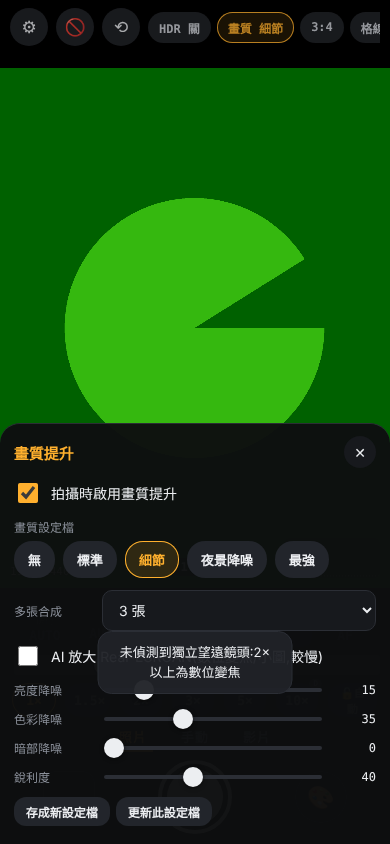
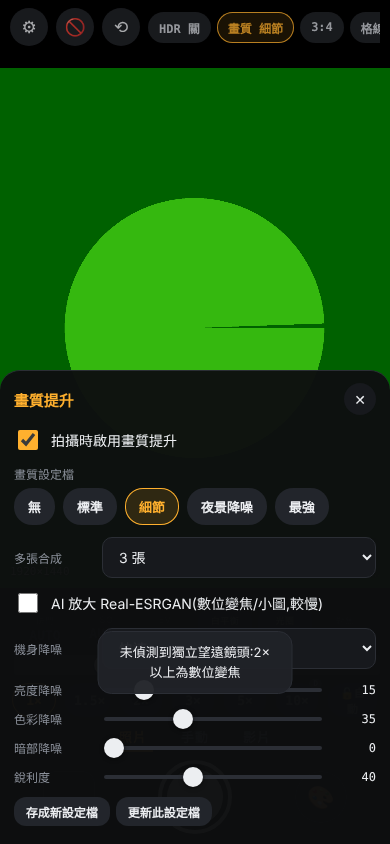
雜訊:新增機身降噪(硬體)選項、粗尺度保邊降噪(濾除斑塊狀雜訊)
Claude-Session: https://claude.ai/code/session_016jd6xW3n2NEQN18hwjMf4T

diff --git a/www/js/enhance.js b/www/js/enhance.js
@@ -4,8 +4,8 @@
 const A = window.A;
 const $ = A.$;
 
-const KEYS = ['burst', 'nn', 'nnMix', 'dnL', 'dnC', 'dnS', 'sharp'];
-A.enhZero = () => ({ burst: 1, nn: false, nnMix: 40, dnL: 0, dnC: 0, dnS: 0, sharp: 0 });
+const KEYS = ['burst', 'nn', 'nnMix', 'dnL', 'dnC', 'dnS', 'sharp', 'hal'];
+A.enhZero = () => ({ burst: 1, nn: false, nnMix: 40, dnL: 0, dnC: 0, dnS: 0, sharp: 0, hal: 0 });
 A.cloneEnh = (e) => {
   const z = A.enhZero();
   const o = {};
@@ -15,10 +15,10 @@ A.cloneEnh = (e) => {
 };
 A.ENH_BUILTIN = [
   { id: 'off', name: '無', builtin: true, enh: { burst: 1, nn: false, nnMix: 40, dnL: 0, dnC: 0, sharp: 0 } },
-  { id: 'std', name: '標準', builtin: true, enh: { burst: 1, nn: false, nnMix: 40, dnL: 20, dnC: 35, sharp: 30 } },
-  { id: 'detail', name: '細節', builtin: true, enh: { burst: 3, nn: false, nnMix: 40, dnL: 15, dnC: 35, sharp: 40 } },
-  { id: 'night', name: '夜景降噪', builtin: true, enh: { burst: 4, nn: false, nnMix: 40, dnL: 45, dnC: 70, dnS: 70, sharp: 25 } },
-  { id: 'max', name: '最強', builtin: true, enh: { burst: 4, nn: true, nnMix: 40, dnL: 30, dnC: 50, sharp: 35 } },
+  { id: 'std', name: '標準', builtin: true, enh: { burst: 1, nn: false, nnMix: 40, dnL: 20, dnC: 35, sharp: 30, hal: 1 } },
+  { id: 'detail', name: '細節', builtin: true, enh: { burst: 3, nn: false, nnMix: 40, dnL: 15, dnC: 35, sharp: 40, hal: 1 } },
+  { id: 'night', name: '夜景降噪', builtin: true, enh: { burst: 4, nn: false, nnMix: 40, dnL: 45, dnC: 70, dnS: 70, sharp: 25, hal: 2 } },
+  { id: 'max', name: '最強', builtin: true, enh: { burst: 4, nn: true, nnMix: 40, dnL: 30, dnC: 50, sharp: 35, hal: 2 } },
 ];
 A.allEnhProfiles = () => A.ENH_BUILTIN.concat(A.settings.enhProfiles || []);
 A.findEnhProfile = (id) => A.allEnhProfiles().find((p) => p.id === id) || null;
@@ -26,9 +26,13 @@ A.findEnhProfile = (id) => A.allEnhProfiles().find((p) => p.id === id) || null;
 /** 確保 settings.enhCap / enhSet 結構完整 */
 A.ensureEnhState = () => {
   const st = A.settings;
-  if (st.enhV !== 2) {   // v2:Real-ESRGAN 會長出怪細節,改為預設關閉並重設強度
-    st.enhV = 2;
+  if (!(st.enhV >= 2)) {   // v2:Real-ESRGAN 會長出怪細節,改為預設關閉並重設強度
     ['enhCap', 'enhSet'].forEach((k) => { if (st[k] && st[k].enh) { st[k].enh.nn = false; st[k].enh.nnMix = 40; } });
+    st.enhV = 2;
+  }
+  if (st.enhV < 3) {       // v3:新增機身降噪(硬體),拍攝預設改用高品質
+    if (st.enhCap && st.enhCap.enh && st.enhCap.enh.hal === undefined) st.enhCap.enh.hal = 2;
+    st.enhV = 3;
   }
   if (!Array.isArray(st.enhProfiles)) st.enhProfiles = [];
   [['enhCap', true, 'detail'], ['enhSet', false, 'std']].forEach(([k, on, id]) => {
@@ -45,9 +49,9 @@ A.ensureEnhState();
 
 /** 實際生效的設定(未啟用 = 全部關閉) */
 A.enhEff = (s) => (s && s.on ? A.cloneEnh(s.enh) : A.enhZero());
-A.enhActive = (e) => e.burst > 1 || e.nn || e.dnL > 0 || e.dnC > 0 || e.dnS > 0 || e.sharp > 0;
+A.enhActive = (e) => e.burst > 1 || e.nn || e.dnL > 0 || e.dnC > 0 || e.dnS > 0 || e.sharp > 0 || e.hal > 0;
 /** 轉成原生外掛參數 */
-A.enhArgs = (e) => ({ nn: !!e.nn, nnMix: e.nnMix / 100, dnLuma: e.dnL, dnChroma: e.dnC, dnShadow: e.dnS, sharpen: e.sharp });
+A.enhArgs = (e) => ({ nn: !!e.nn, nnMix: e.nnMix / 100, dnLuma: e.dnL, dnChroma: e.dnC, dnShadow: e.dnS, sharpen: e.sharp, halNr: e.hal });
 A.enhSame = (a, b) => JSON.stringify(A.cloneEnh(a)) === JSON.stringify(A.cloneEnh(b));
 
 A.saveEnhProfile = (name, enh) => {
@@ -98,7 +102,7 @@ A.buildEnhPanel = (container, st, opts) => {
     rows[key] = { inp, val, row, unit };
   };
 
-  let burstSel = null, nnBox = null, nnRowEl = null;
+  let halSel = null, burstSel = null, nnBox = null, nnRowEl = null;
   if (opts.showBurst !== false) {
     const row = document.createElement('div');
     row.className = 'row';
@@ -116,6 +120,14 @@ A.buildEnhPanel = (container, st, opts) => {
     body.appendChild(row);
     nnRowEl = row;
     addSlider('nnMix', 'AI 強度', 100, '%');
+  }
+  if (opts.showHal !== false) {
+    const row = document.createElement('div');
+    row.className = 'row';
+    row.innerHTML = '<span class="n" style="width:78px">機身降噪</span><select class="txt" style="flex:1"><option value="0">關(原始)</option><option value="1">快速</option><option value="2">高品質(硬體,最有效)</option></select>';
+    halSel = row.querySelector('select');
+    halSel.onchange = () => { st.enh.hal = parseInt(halSel.value, 10); changed(); renderChips(); };
+    body.appendChild(row);
   }
   addSlider('dnL', '亮度降噪', 100);
   addSlider('dnC', '色彩降噪', 100);
@@ -173,6 +185,7 @@ A.buildEnhPanel = (container, st, opts) => {
   function refresh() {
     onBox.checked = !!st.on;
     if (burstSel) burstSel.value = String(st.enh.burst);
+    if (halSel) halSel.value = String(st.enh.hal || 0);
     if (nnBox) { nnBox.checked = !!st.enh.nn; rows.nnMix.row.style.display = st.enh.nn ? 'flex' : 'none'; }
     ['nnMix', 'dnL', 'dnC', 'dnS', 'sharp'].forEach((k) => {
       const r = rows[k];

diff --git a/www/js/editor.js b/www/js/editor.js
@@ -126,7 +126,7 @@ const btn = (txt, cls, fn) => { const b = document.createElement('button'); b.cl
 function toolQuality(p) {
   const box = document.createElement('div');
   p.appendChild(box);
-  A.buildEnhPanel(box, E.enhSt, { toggleLabel: '套用畫質提升', showBurst: false, showNN: true, onChange: () => { scheduleDn(); schedule(); } });
+  A.buildEnhPanel(box, E.enhSt, { toggleLabel: '套用畫質提升', showBurst: false, showHal: false, showNN: true, onChange: () => { scheduleDn(); schedule(); } });
   const n = document.createElement('p');
   n.className = 'note';
   n.textContent = '預覽的降噪為縮圖近似效果;儲存時以原始解析度處理。AI 放大只適用 ≤2.5MP 的影像,輸出約 2 倍邊長。';

diff --git a/android/app/src/main/java/com/kirishima/cameraapp/LookMath.java b/android/app/src/main/java/com/kirishima/cameraapp/LookMath.java
@@ -275,6 +275,7 @@ final class LookMath {
                 });
                 cur = dst;
             }
+            cur = coarseDenoise(cur, w, h, luma, shadow);
             final byte[] fin = cur;
             java.util.stream.IntStream.range(0, h).parallel().forEach(y -> {
                 for (int x = 0; x < w; x++) {
@@ -288,6 +289,81 @@ final class LookMath {
                 }
             });
         }
+    }
+
+    /**
+     * 粗尺度降噪:手機雜訊是數像素大的斑塊,全解析度的小視窗濾不掉。
+     * 把亮度縮成一半再做較強的保邊濾波,只在「平坦區」(去噪後梯度小)把結果混回,紋理與邊緣保留原樣。
+     */
+    private static byte[] coarseDenoise(final byte[] cur, final int w, final int h, final float luma, final float shadow) {
+        final int w2 = (w + 1) / 2, h2 = (h + 1) / 2;
+        byte[] y2 = new byte[w2 * h2];
+        for (int y = 0; y < h2; y++) {
+            for (int x = 0; x < w2; x++) {
+                int x1 = Math.min(w - 1, 2 * x + 1), y1 = Math.min(h - 1, 2 * y + 1);
+                int sum = (cur[2 * y * w + 2 * x] & 255) + (cur[2 * y * w + x1] & 255)
+                        + (cur[y1 * w + 2 * x] & 255) + (cur[y1 * w + x1] & 255);
+                y2[y * w2 + x] = (byte) ((sum + 2) >> 2);
+            }
+        }
+        final int R = 2;
+        final float[] sw = new float[25];
+        for (int dy = -R; dy <= R; dy++) for (int dx = -R; dx <= R; dx++)
+            sw[(dy + R) * 5 + dx + R] = (float) Math.exp(-(dx * dx + dy * dy) / (2.0 * 1.4 * 1.4));
+        final float[] lut = new float[256 * 256];
+        final float[] kEff = new float[256];
+        for (int yv = 0; yv < 256; yv++) {
+            float eff = Math.min(100f, luma + shadow * darkness(yv));
+            kEff[yv] = Math.min(1f, eff / 100f) * 0.9f;
+            float sg = 6f + eff / 100f * 60f;
+            for (int d = 0; d < 256; d++) lut[(yv << 8) + d] = (float) Math.exp(-(d * d) / (2.0 * sg * sg));
+        }
+        final byte[] d2 = new byte[w2 * h2];
+        final byte[] src2 = y2;
+        java.util.stream.IntStream.range(0, h2).parallel().forEach(y -> {
+            for (int x = 0; x < w2; x++) {
+                int c0 = src2[y * w2 + x] & 255;
+                float sum = 0f, ws = 0f;
+                for (int dy = -R; dy <= R; dy++) {
+                    int yy = Math.min(h2 - 1, Math.max(0, y + dy));
+                    for (int dx = -R; dx <= R; dx++) {
+                        int xx = Math.min(w2 - 1, Math.max(0, x + dx));
+                        int v = src2[yy * w2 + xx] & 255;
+                        float wt = sw[(dy + R) * 5 + dx + R] * lut[(c0 << 8) + Math.abs(v - c0)];
+                        sum += wt * v;
+                        ws += wt;
+                    }
+                }
+                d2[y * w2 + x] = (byte) Math.round(sum / ws);
+            }
+        });
+        final float[] flat = new float[w2 * h2];
+        for (int y = 0; y < h2; y++) {
+            for (int x = 0; x < w2; x++) {
+                int xl = Math.max(0, x - 1), xr = Math.min(w2 - 1, x + 1), yu = Math.max(0, y - 1), yd = Math.min(h2 - 1, y + 1);
+                int g = Math.abs((d2[y * w2 + xr] & 255) - (d2[y * w2 + xl] & 255)) + Math.abs((d2[yd * w2 + x] & 255) - (d2[yu * w2 + x] & 255));
+                flat[y * w2 + x] = Math.max(0f, 1f - g / 24f);
+            }
+        }
+        final byte[] out = new byte[w * h];
+        java.util.stream.IntStream.range(0, h).parallel().forEach(y -> {
+            float fy = Math.max(0f, Math.min(h2 - 1f, (y + 0.5f) / 2f - 0.5f));
+            int y0 = (int) fy, y1 = Math.min(h2 - 1, y0 + 1);
+            float wy = fy - y0;
+            for (int x = 0; x < w; x++) {
+                float fx = Math.max(0f, Math.min(w2 - 1f, (x + 0.5f) / 2f - 0.5f));
+                int x0 = (int) fx, x1 = Math.min(w2 - 1, x0 + 1);
+                float wx = fx - x0;
+                float dv = ((d2[y0 * w2 + x0] & 255) * (1 - wx) + (d2[y0 * w2 + x1] & 255) * wx) * (1 - wy)
+                        + ((d2[y1 * w2 + x0] & 255) * (1 - wx) + (d2[y1 * w2 + x1] & 255) * wx) * wy;
+                float fl = (flat[y0 * w2 + x0] * (1 - wx) + flat[y0 * w2 + x1] * wx) * (1 - wy)
+                        + (flat[y1 * w2 + x0] * (1 - wx) + flat[y1 * w2 + x1] * wx) * wy;
+                int c = cur[y * w + x] & 255;
+                float k = kEff[c] * fl;
+                out[y * w + x] = (byte) Math.max(0, Math.min(255, Math.round(c + k * (dv - c))));
+            }
+        });
+        return out;
     }
 
     /** 銳利度 0..100 → unsharp(僅亮度) */

diff --git a/android/app/src/main/java/com/kirishima/cameraapp/NativeShot.java b/android/app/src/main/java/com/kirishima/cameraapp/NativeShot.java
@@ -43,6 +43,7 @@ final class NativeShot {
         long exposureNs;          // >0 = 手動曝光
         int iso;                  // 手動曝光時使用
         float focusMeters;        // >0 = 手動對焦(公尺)
+        int halNr = 0;            // 機身降噪:0 關、1 快速、2 高品質
         float ev;                 // 自動曝光時的曝光補償
         int jpegQuality = 95;
         boolean torch;
@@ -527,8 +528,12 @@ final class NativeShot {
         // 銳化與降噪全部交給「畫質提升」設定:機身端一律關閉,拍到的就是未處理的影像
         if (has(cc.get(CameraCharacteristics.EDGE_AVAILABLE_EDGE_MODES), CameraMetadata.EDGE_MODE_OFF))
             b.set(CaptureRequest.EDGE_MODE, CameraMetadata.EDGE_MODE_OFF);
-        if (has(cc.get(CameraCharacteristics.NOISE_REDUCTION_AVAILABLE_NOISE_REDUCTION_MODES), CameraMetadata.NOISE_REDUCTION_MODE_OFF))
-            b.set(CaptureRequest.NOISE_REDUCTION_MODE, CameraMetadata.NOISE_REDUCTION_MODE_OFF);
+        {
+            int[] modes = cc.get(CameraCharacteristics.NOISE_REDUCTION_AVAILABLE_NOISE_REDUCTION_MODES);
+            int want = req.halNr >= 2 ? CameraMetadata.NOISE_REDUCTION_MODE_HIGH_QUALITY
+                    : req.halNr == 1 ? CameraMetadata.NOISE_REDUCTION_MODE_FAST : CameraMetadata.NOISE_REDUCTION_MODE_OFF;
+            if (has(modes, want)) b.set(CaptureRequest.NOISE_REDUCTION_MODE, want);
+        }
         if (has(cc.get(CameraCharacteristics.HOT_PIXEL_AVAILABLE_HOT_PIXEL_MODES), CameraMetadata.HOT_PIXEL_MODE_HIGH_QUALITY))
             b.set(CaptureRequest.HOT_PIXEL_MODE, CameraMetadata.HOT_PIXEL_MODE_HIGH_QUALITY);
         if (has(cc.get(CameraCharacteristics.COLOR_CORRECTION_AVAILABLE_ABERRATION_MODES), CameraMetadata.COLOR_CORRECTION_ABERRATION_MODE_HIGH_QUALITY))

diff --git a/android/app/src/main/java/com/kirishima/cameraapp/CameraToolsPlugin.java b/android/app/src/main/java/com/kirishima/cameraapp/CameraToolsPlugin.java
@@ -768,6 +768,7 @@ public class CameraToolsPlugin extends Plugin {
         r.jpegQuality = q == null ? 95 : q;
         r.torch = Boolean.TRUE.equals(call.getBoolean("torch", false));
         r.burst = Math.max(1, Math.min(8, call.getInt("burst", 1)));
+        r.halNr = Math.max(0, Math.min(2, call.getInt("halNr", 0)));
         Double zz = call.getDouble("zoom", 1.0);
         r.zoom = zz == null ? 1f : zz.floatValue();
         Double fu = call.getDouble("focusU", -1.0), fv = call.getDouble("focusV", -1.0);
